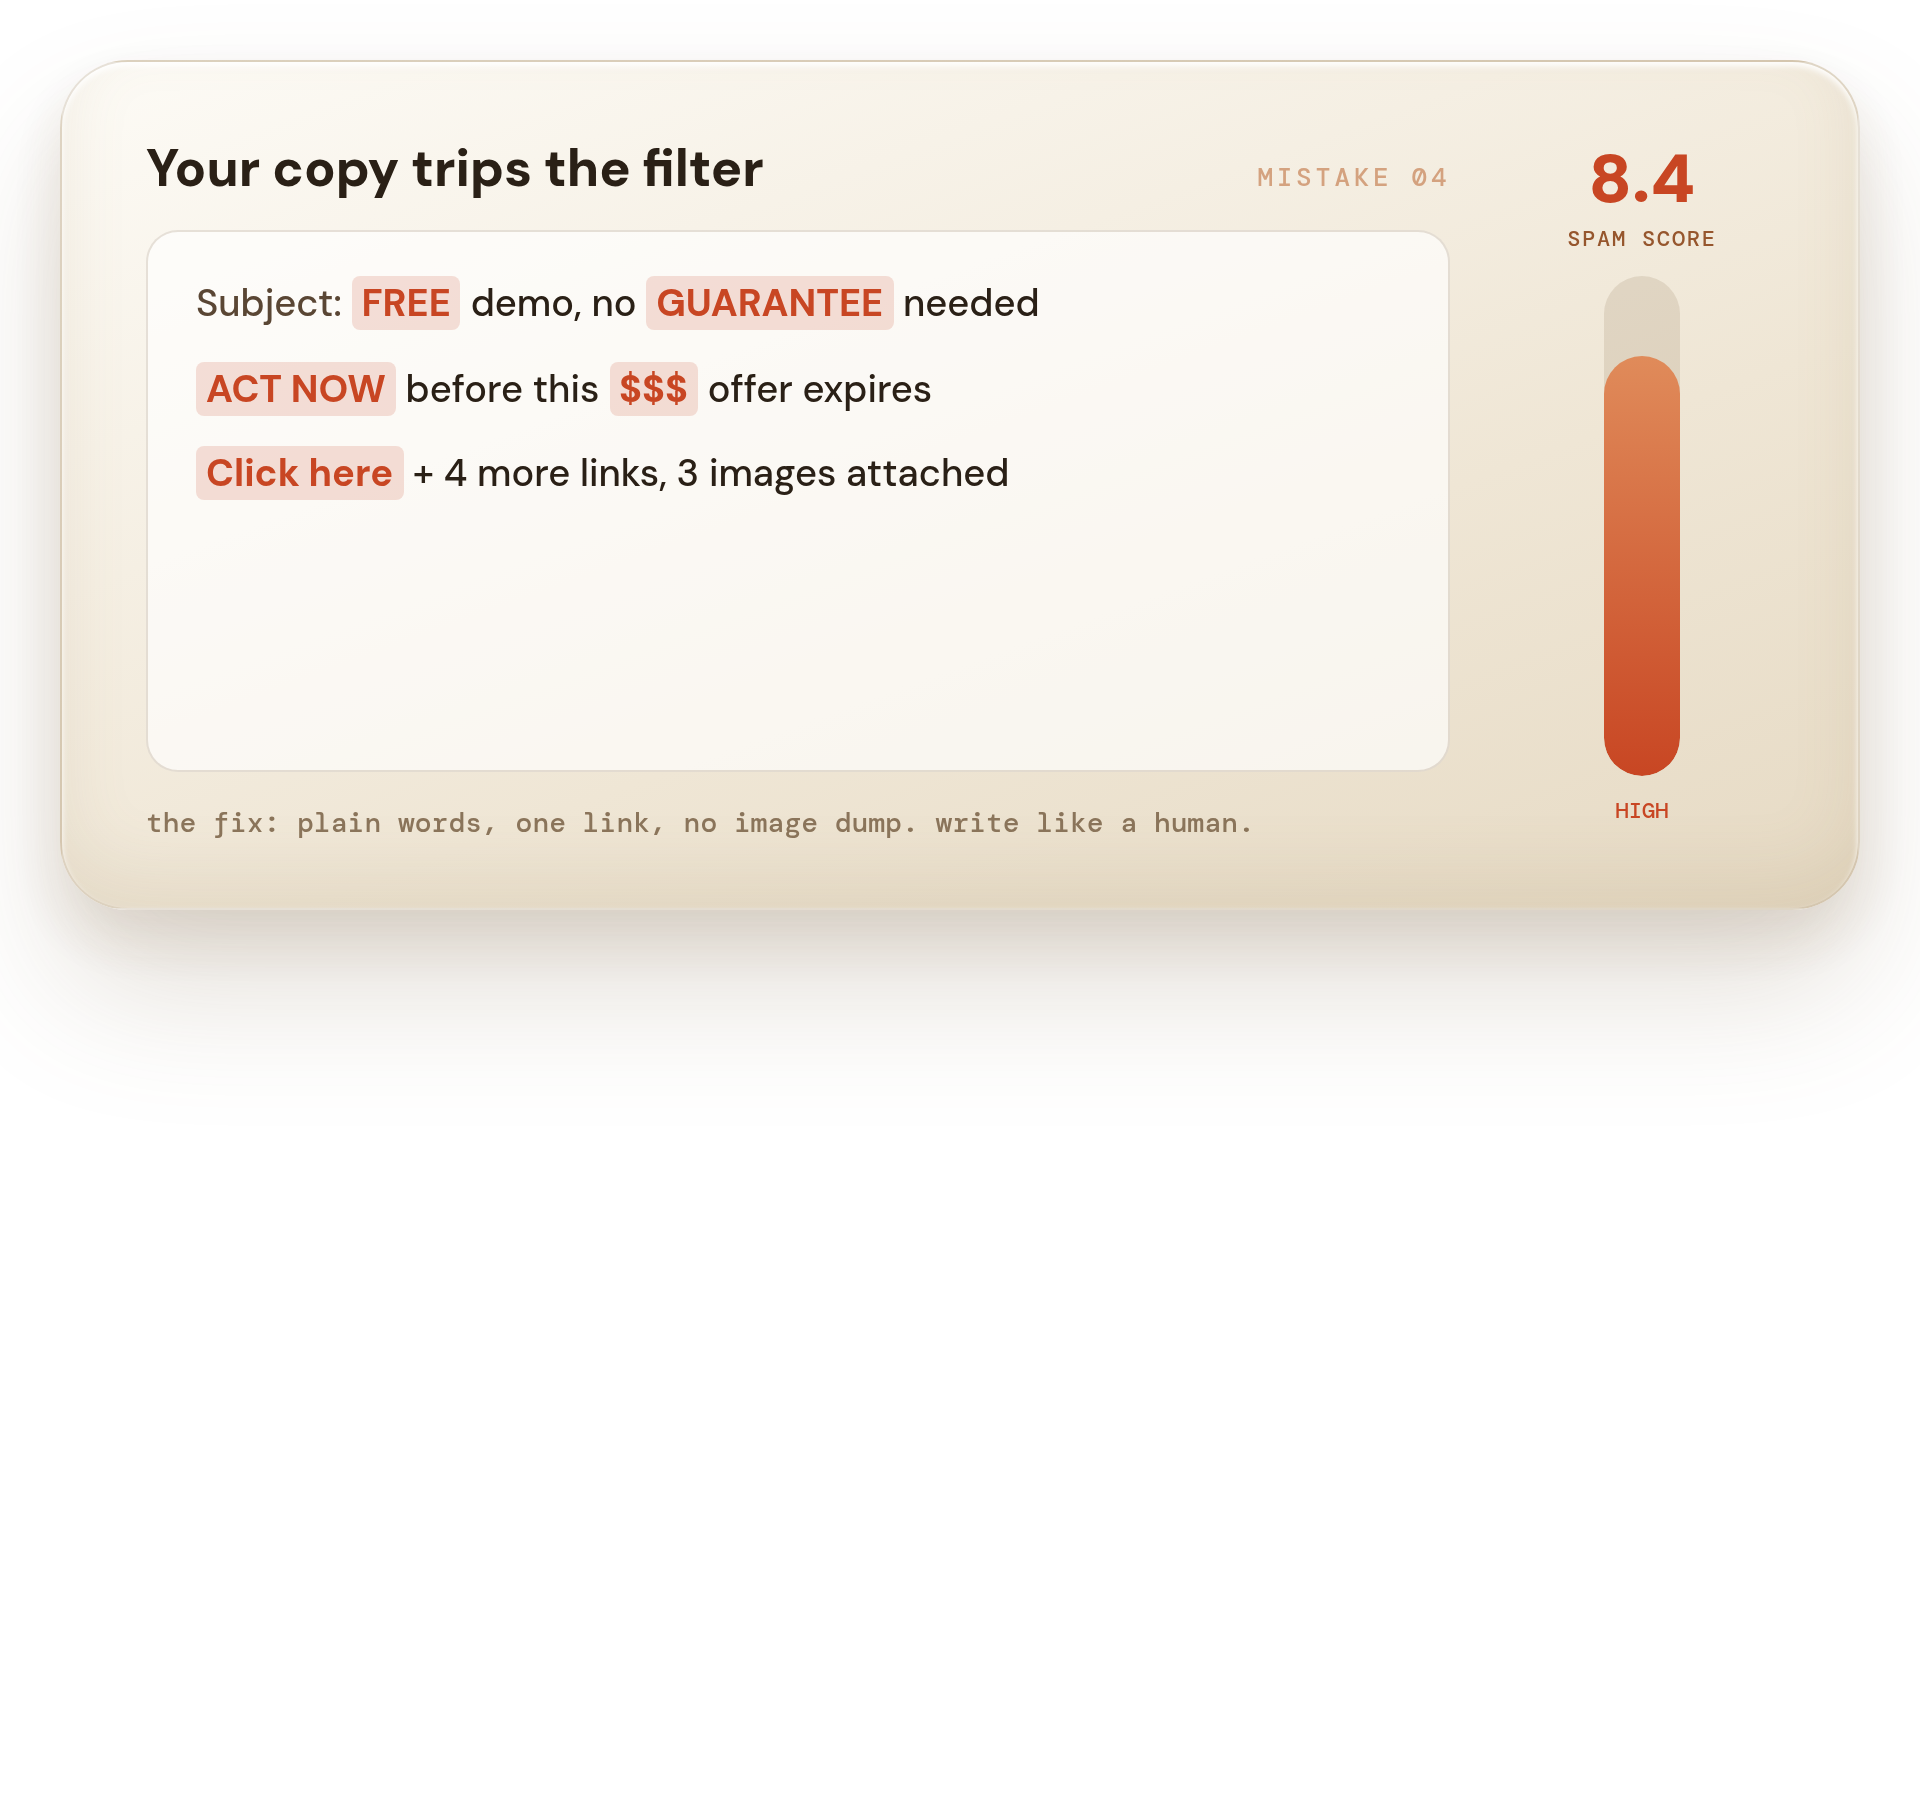
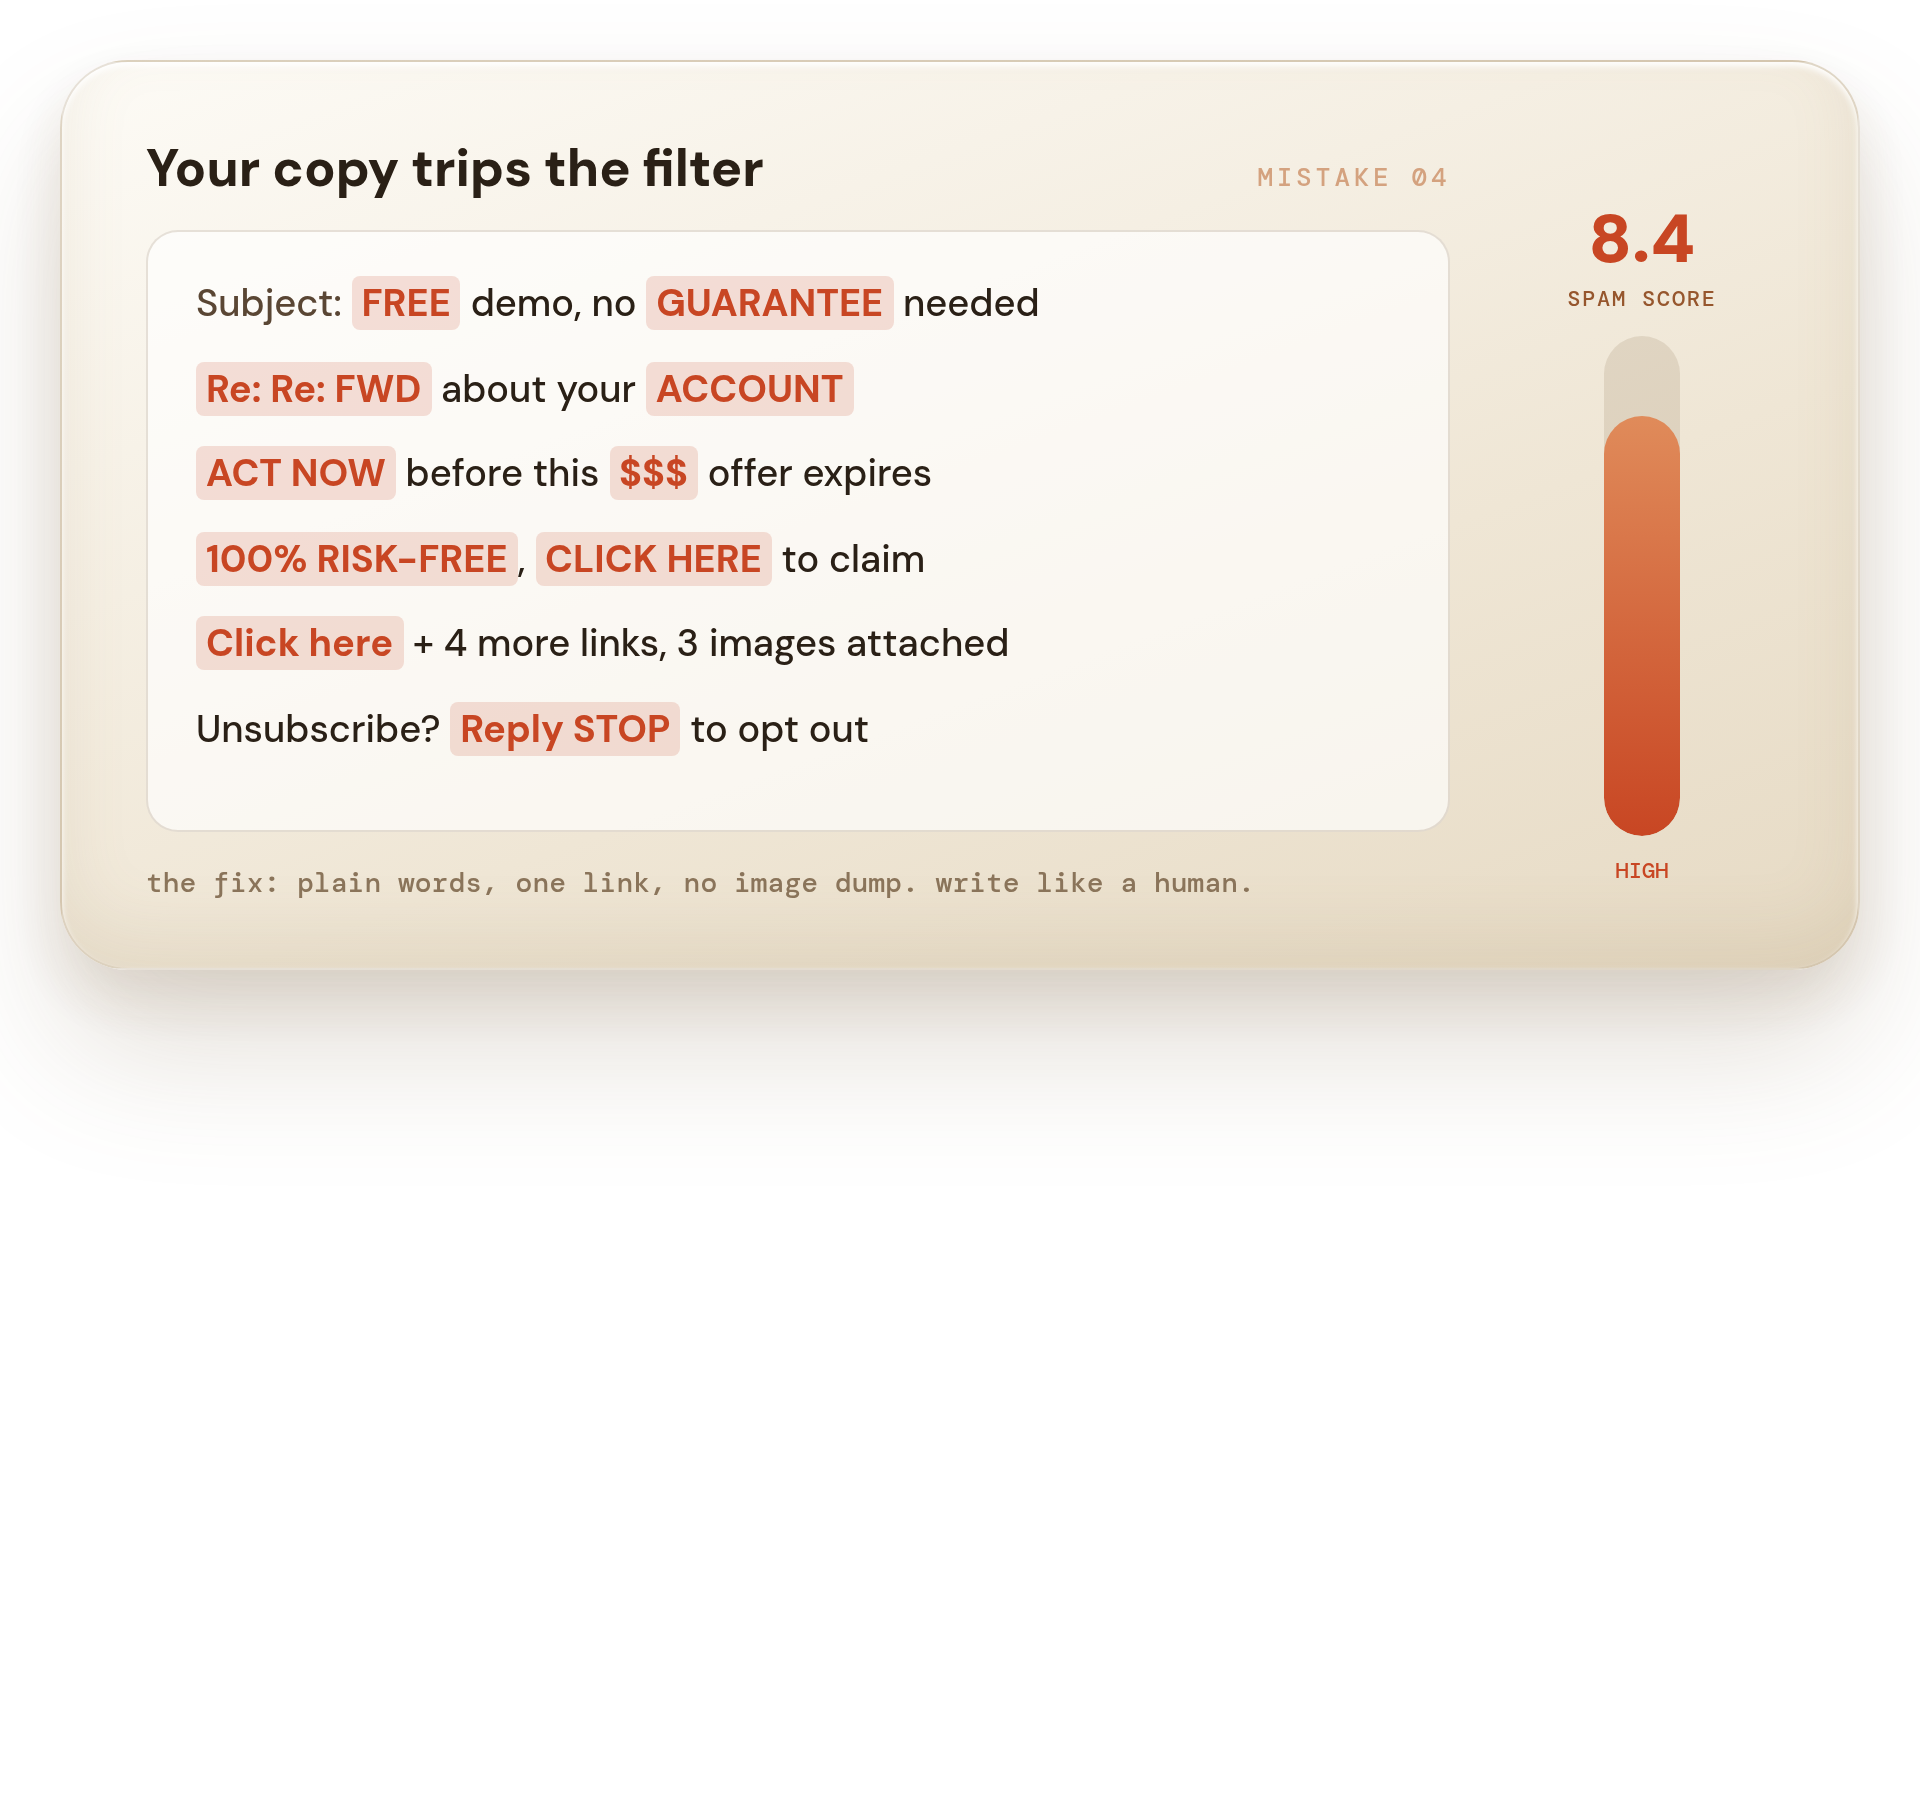
IG Scraped 3: panels s3src32/38
Claude-Session: https://claude.ai/code/session_014kd6D8JB5VW3pfqpgRb2H7

Changed region(s): [[0.0625, 0.1867, 0.75, 0.4978], [0.0312, 0.4044, 0.9688, 0.56], [0.8125, 0.0933, 0.9062, 0.2489]]

diff --git a/content/_hitl-src/s3src32_t3.py b/content/_hitl-src/s3src32_t3.py
@@ -126,8 +126,11 @@ def auth():
 # 5. CONTENT - IVORY email paper with trigger words flagged red, next to a climbing spam-score meter
 def content():
     lines=[('Subject: ',[('FREE',1),(' demo, no ',0),('GUARANTEE',1),(' needed',0)]),
+           ('',[('Re: Re: FWD',1),(' about your ',0),('ACCOUNT',1)]),
            ('',[('ACT NOW',1),(' before this ',0),('$$$',1),(' offer expires',0)]),
-           ('',[('Click here',1),(' + 4 more links, 3 images attached',0)])]
+           ('',[('100% RISK-FREE',1),(', ',0),('CLICK HERE',1),(' to claim',0)]),
+           ('',[('Click here',1),(' + 4 more links, 3 images attached',0)]),
+           ('',[('Unsubscribe? ',0),('Reply STOP',1),(' to opt out',0)])]
     body=""
     for pre,parts in lines:
         seg=f'<span style="color:#5a4634">{pre}</span>' if pre else ''
